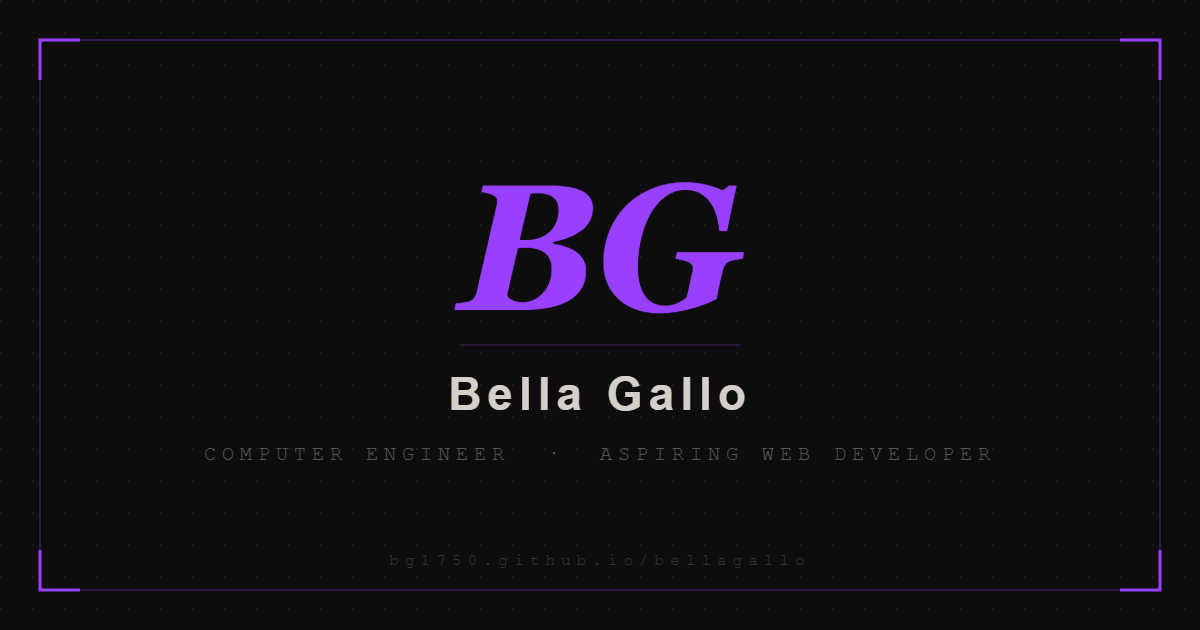
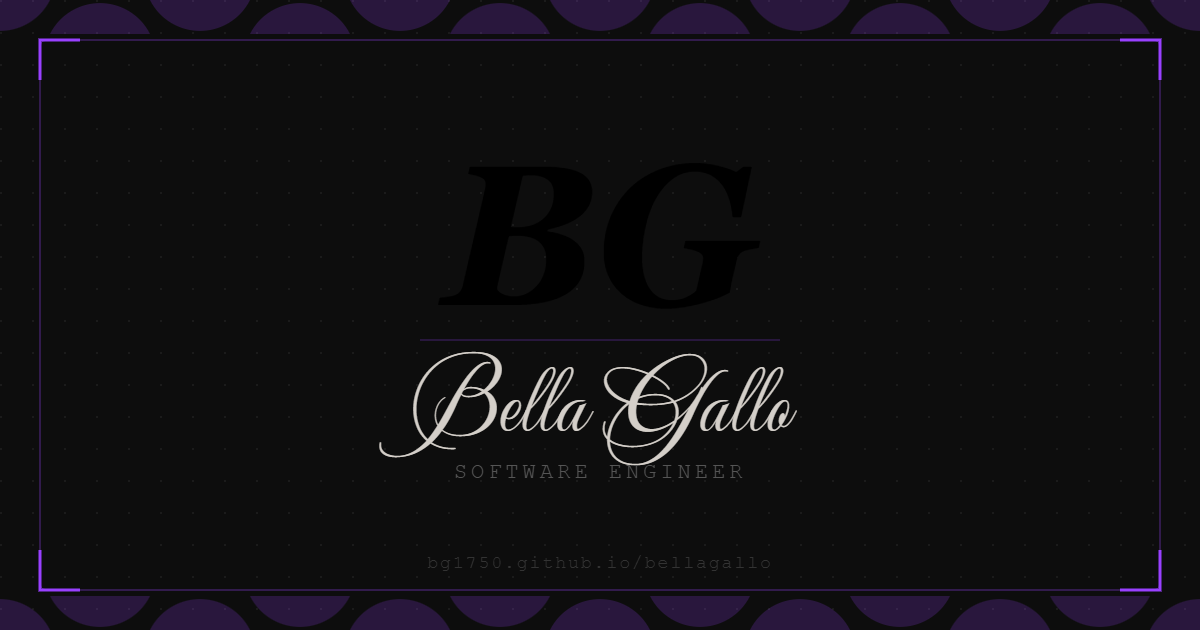
fixed og site image

diff --git a/generate-og.html b/generate-og.html
@@ -23,7 +23,7 @@
 
         const canvas = document.getElementById('canvas');
         const ctx = canvas.getContext('2d');
-        
+
         const W = 1200, H = 630;
 
         // Background
@@ -143,7 +143,7 @@
         ctx.fillStyle = '#555555';
         ctx.font = '22px "Courier New", monospace';
         ctx.letterSpacing = '4px';
-        ctx.fillText('SOFTWARE ENGINEER  ·  ASPIRING WEB DEVELOPER', W / 2, 478);
+        ctx.fillText('SOFTWARE ENGINEER', W / 2, 478);
 
         // URL
         ctx.fillStyle = '#333333';
